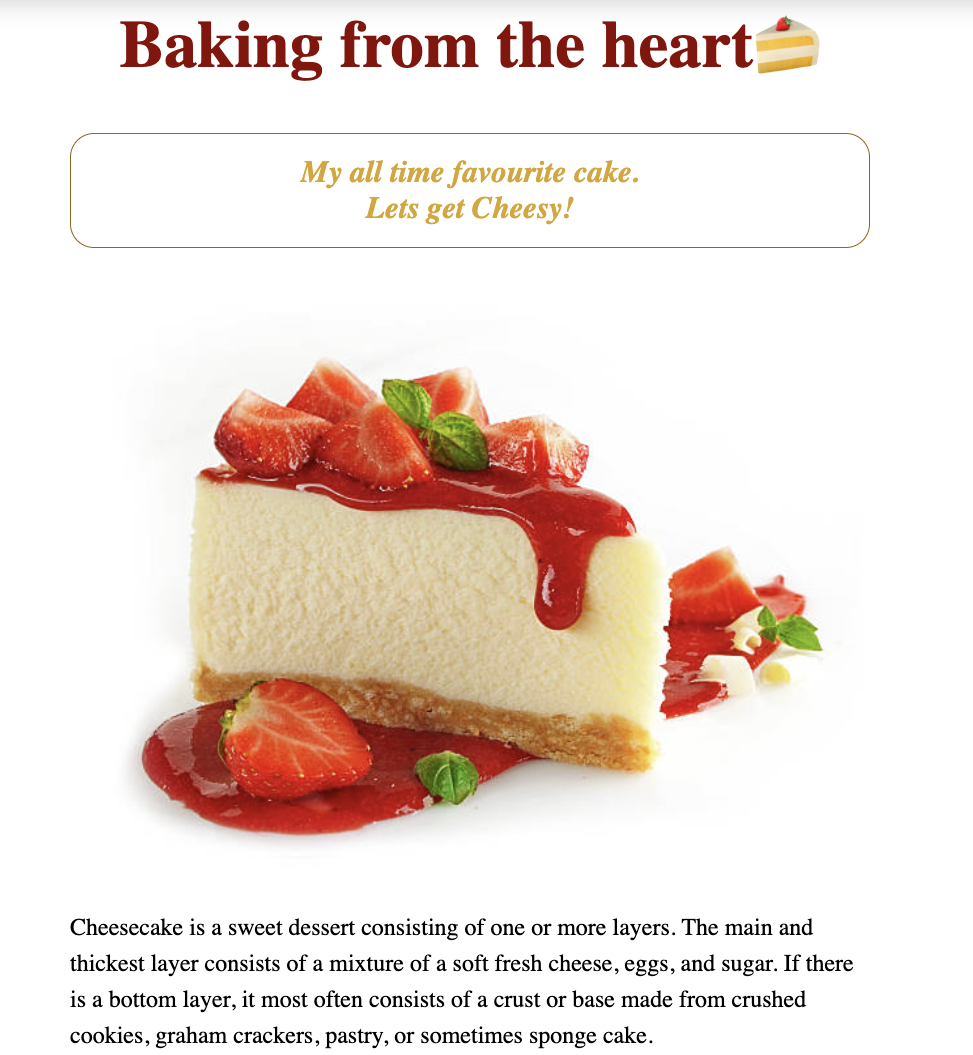
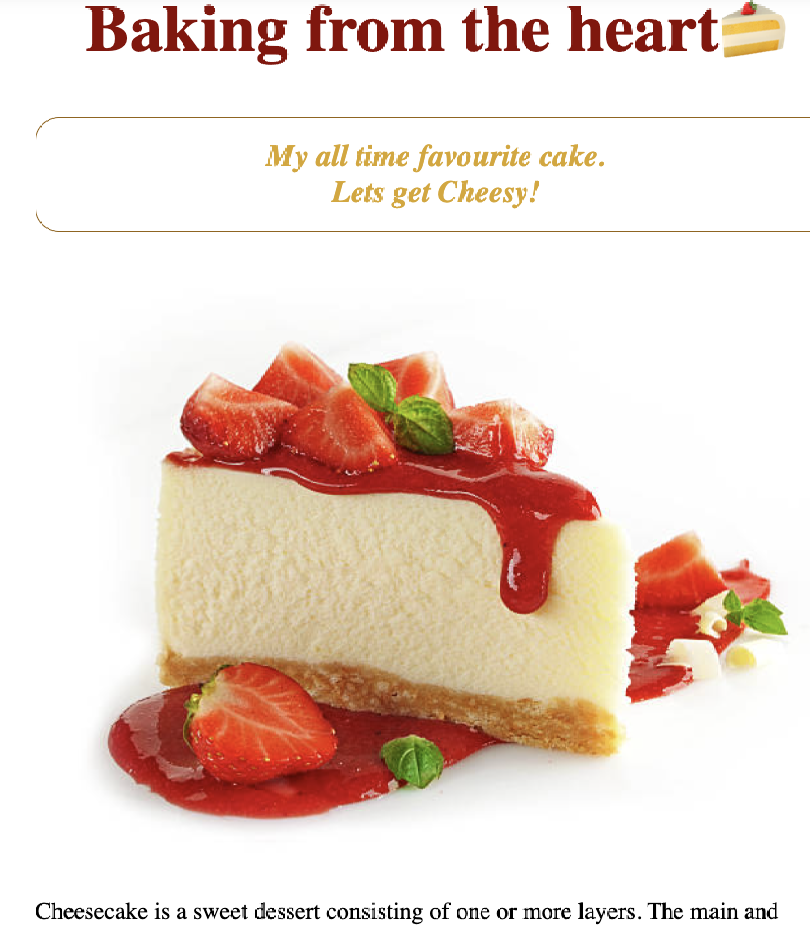
built work page and added css

diff --git a/styles.css b/styles.css
@@ -1,110 +1,120 @@
-:root{
-    --branding-color: #6c63ff;
-    --heading-font-family: "Playfair Display", serif;
-    --default-font-family: "Poppins", sans-serif;
-    --secondary-color: #f9f7fe;
+:root {
+  --branding-color: #6c63ff;
+  --heading-font-family: "Playfair Display", serif;
+  --default-font-family: "Poppins", sans-serif;
+  --secondary-color: #f9f7fe;
 }
-body{
+body {
+  font-family: var(--default-font-family);
+}
+h1,
+h2,
+h3,
+h4,
+h5,
+h6 {
+  color: black;
+  font-family: var(--heading-font-family);
+  line-height: 1.2;
+  font-weight: bold;
+}
+h1 {
+  font-size: 96px;
+  line-height: 1.5;
+}
+h2 {
+  font-size: 64px;
+}
+
+p {
+  font-weight: normal;
+  font-size: 16px;
+  line-height: 30px;
+}
+.hero {
+  background: var(--secondary-color);
+  text-align: center;
+  padding: 160px 20px;
+}
+.hero p {
+  font-size: 36px;
+  font-weight: bold;
+  margin: 0;
+  color: #272142;
+}
+.hero h2 {
+  font-family: var(--default-font-family);
+  font-weight: normal;
+  font-size: 24px;
+  line-height: 1.5;
+}
+.content-container {
+  padding: 160px 20px;
+}
+
+.content-container h1 {
+  font-size: 64px;
+  line-height: 80px;
+}
+.content-container h2 {
+  font-size: 18px;
+  font-family: var(--default-font-family);
+}
+.content {
+  margin: 30px;
+}
+.content h3 {
+    font-size: 24px;
     font-family: var(--default-font-family);
+    line-height: 1,5;
+    margin: 20px 0;
 }
-h1, h2, h3, h4, h5, h6{
-    color: black;
-    font-family: var(--heading-font-family);
-    line-height: 1.2;
-    font-weight: bold;
-  }
-  h1{
-    font-size: 96px;
-    line-height: 1.5;
+.content p {
+    font-size: 14px;
+}
+.btn-branding {
+  background: var(--branding-color);
+  border-radius: 4px;
+  color: white;
+  font-size: 18px;
+  line-height: 27px;
+  padding: 15px 30px;
+}
+.btn-branding-outline {
+  border-radius: 4px;
+  font-size: 18px;
+  line-height: 27px;
+  padding: 15px 30px;
+  border: 1px solid var(--branding-color);
+  color: white;
+  background: var(--branding-color);
+}
+.project-description {
+  padding: 120px 60px;
+}
+
+.about-pic {
+  border-radius: 10px;
+}
+
+@media (max-width: 900px) {
+  h1 {
+    font-size: 44px;
+    line-height: 2;
   }
   h2 {
-    font-size: 64px;
+    margin-top: 37px;
+    font-size: 44px;
   }
-  
-  p {
-    font-family: var(--default-font-family);
-    font-weight: normal;
-    font-size: 16px;
-    line-height: 30px;
+  .project-description {
+    padding: 0px;
+    text-align: center;
   }
   .hero {
-    background: var(--secondary-color);
+    padding: 80px 20px;
+  }
+  .content-container {
     text-align: center;
-    padding: 160px 20px;
+    padding: 0;
   }
-  .hero p{
-    font-size: 36px;
-    font-weight: bold;
-    margin: 0;
-    color: #272142;
-  }
-  .hero h2{
-    font-family:var(--default-font-family);
-    font-weight: normal;
-    font-size: 24px;
-    line-height: 1.5;
-  }
-  .about-section {
-    padding: 160px 20px;
-  }
-
-  .about-section h1{
-    font-size: 64px;
-    line-height: 80px;
-  }
-.about-section h2{
-    font-size: 18px;
-    font-family: var(--default-font-family);
 }
-.about-section-content{
-    margin: 30px;
-}
-  .btn-branding {
-    background: var(--branding-color);
-    border-radius: 4px;
-    color: white;
-    font-size: 18px;
-    line-height: 27px;
-    padding: 15px 30px;
-  }
-  .btn-branding-outline{
-    border-radius: 4px;
-    font-size: 18px;
-    line-height: 27px;
-    padding: 15px 30px;
-    border: 1px solid var(--branding-color);
-    color: white;
-    background: var(--branding-color);
-  }
-  .project-description{
-    padding: 120px 60px;
-    
-  }
-  
-.about-pic{
-    border-radius: 10px;
-}
-
-
-  @media (max-width: 900px){
-    h1 {
-        font-size: 44px;
-        line-height: 2;
-    }
-    h2 {
-        margin-top: 37px;
-        font-size: 44px;
-    }
-    .project-description {
-        padding: 0px;
-        text-align: center;
-    }
-    .hero {
-        padding: 80px 20px;
-      }
-      .about-section{
-        text-align: center;
-        padding: 0;
-      }
-  }
-  

diff --git a/work.html b/work.html
@@ -1,0 +1,61 @@
+<!DOCTYPE html>
+<html lang="en">
+  <head>
+    <meta charset="UTF-8" />
+    <meta http-equiv="X-UA-Compatible" content="IE=edge" />
+    <meta name="viewport" content="width=device-width, initial-scale=1.0" />
+    <link
+      href="https://cdn.jsdelivr.net/npm/bootstrap@5.2.2/dist/css/bootstrap.min.css"
+      rel="stylesheet"
+      integrity="sha384-Zenh87qX5JnK2Jl0vWa8Ck2rdkQ2Bzep5IDxbcnCeuOxjzrPF/et3URy9Bv1WTRi"
+      crossorigin="anonymous"
+    />
+    <script
+      src="https://cdn.jsdelivr.net/npm/bootstrap@5.2.2/dist/js/bootstrap.bundle.min.js"
+      integrity="sha384-OERcA2EqjJCMA+/3y+gxIOqMEjwtxJY7qPCqsdltbNJuaOe923+mo//f6V8Qbsw3"
+      crossorigin="anonymous"
+    ></script>
+    <script
+      src="https://kit.fontawesome.com/ddc3ee268a.js"
+      crossorigin="anonymous"
+    ></script>
+    <link rel="preconnect" href="https://fonts.gstatic.com" />
+
+    <link
+      href="https://fonts.googleapis.com/css2?family=Playfair+Display:wght@700&amp;family=Poppins:wght@500;700&amp;display=swap"
+      rel="stylesheet"
+    />
+    <link rel="stylesheet" href="styles.css" />
+    <title>Work page</title>
+  </head>
+  <body>
+    <div class="content-container container">
+       <div class="content">
+          <h1 class="mb-5">Take a look at what I've been working on!</h1>
+         <div class="row">
+          <div class="col-md-6 mb-4">
+            <img src="images/cheesecake.png" alt="" class="img-fluid rounded">
+            <h3 class="text-center">Cheesecake Project</h3>
+            <p class="text-center text-muted">Built with HTML & CSS</p>
+          </div>
+          <div class="col-md-6 mb-4">
+            <img src="images/dictionary.png" alt="" class="img-fluid rounded">
+            <h3 class="text-center">Dictionary Project</h3>
+            <p class="text-center text-muted">Built with HTML, CSS with React</p>
+          </div>
+            <div class="col-md-6 mb-4">
+              <img src="images/weatherapp.png" alt="" class="img-fluid rounded">
+              <h3 class="text-center">Weatherapp Project</h3>
+              <p class="text-center text-muted">Built with HTML, CSS & JS</p>
+            </div>
+            
+              <div class="col-md-6 mb-4">
+                <img src="images/translation.png" alt="" class="img-fluid rounded">
+                <h3 class="text-center">Translation Project</h3>
+                <p class="text-center text-muted">Built with HTML, CSS with React</p>
+              </div>
+         </div>
+      </div>
+    </div>
+  </body>
+</html>

diff --git a/about.html b/about.html
@@ -29,10 +29,10 @@
     <title>About page</title>
   </head>
   <body>
-    <div class="about-section container">
+    <div class="content-container container">
       <div class="row">
         <div class="col-lg-6">
-          <div class="about-section-content">
+          <div class="content">
             <h1 class="mb-4">Hi I am Eltina Ngwarai</h1>
 
             <h2 class="mb-4">Frontend Developer, based in Germany</h2>
